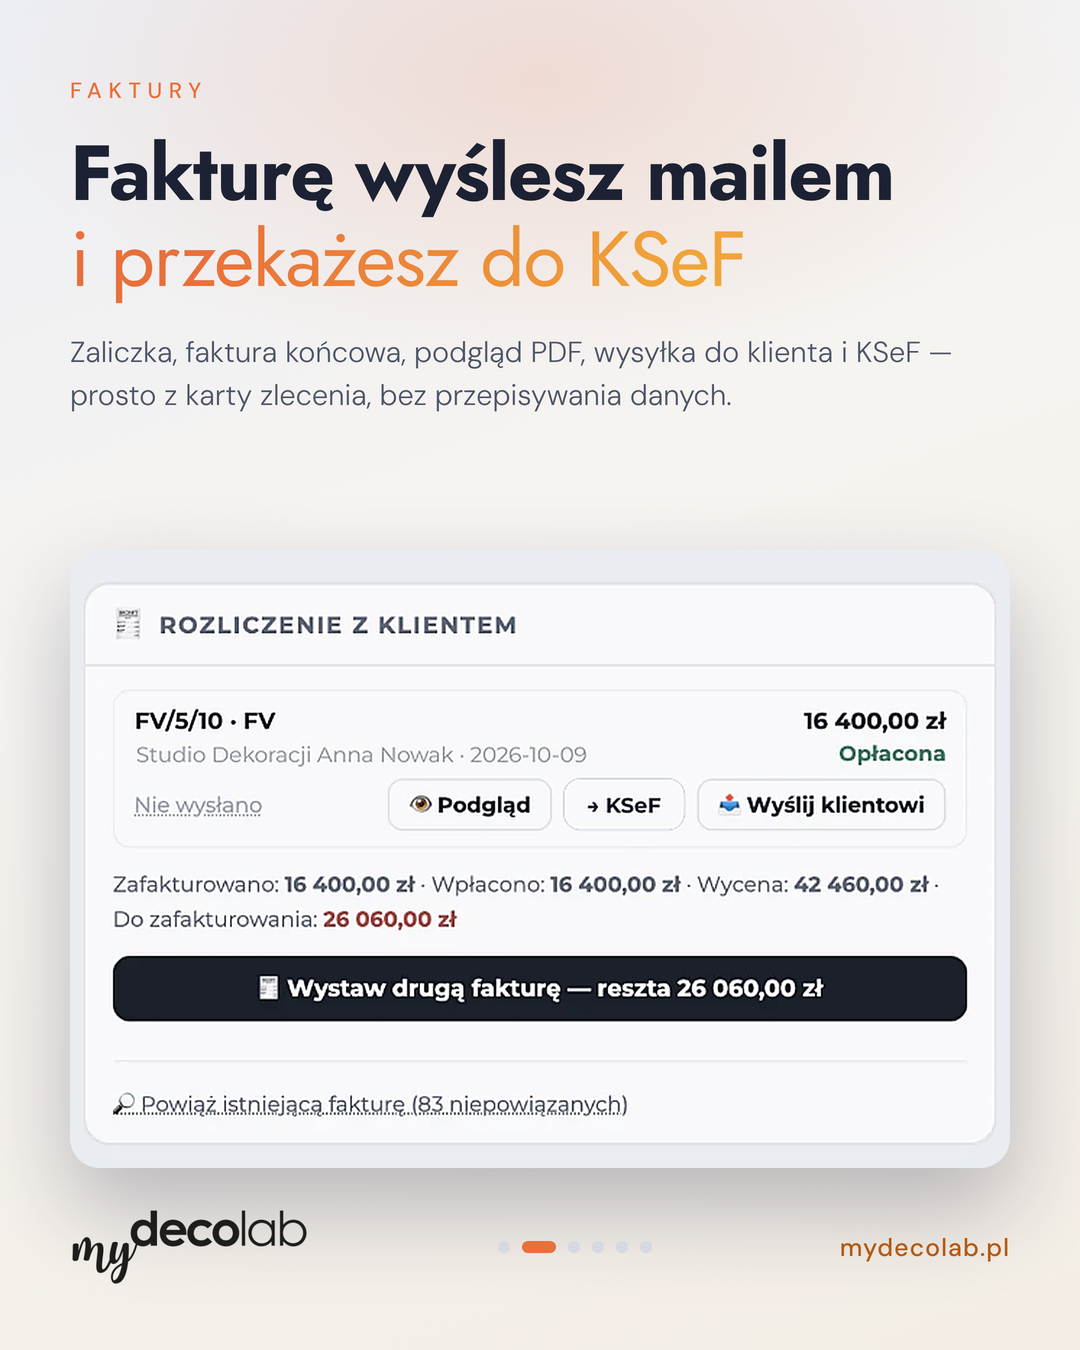
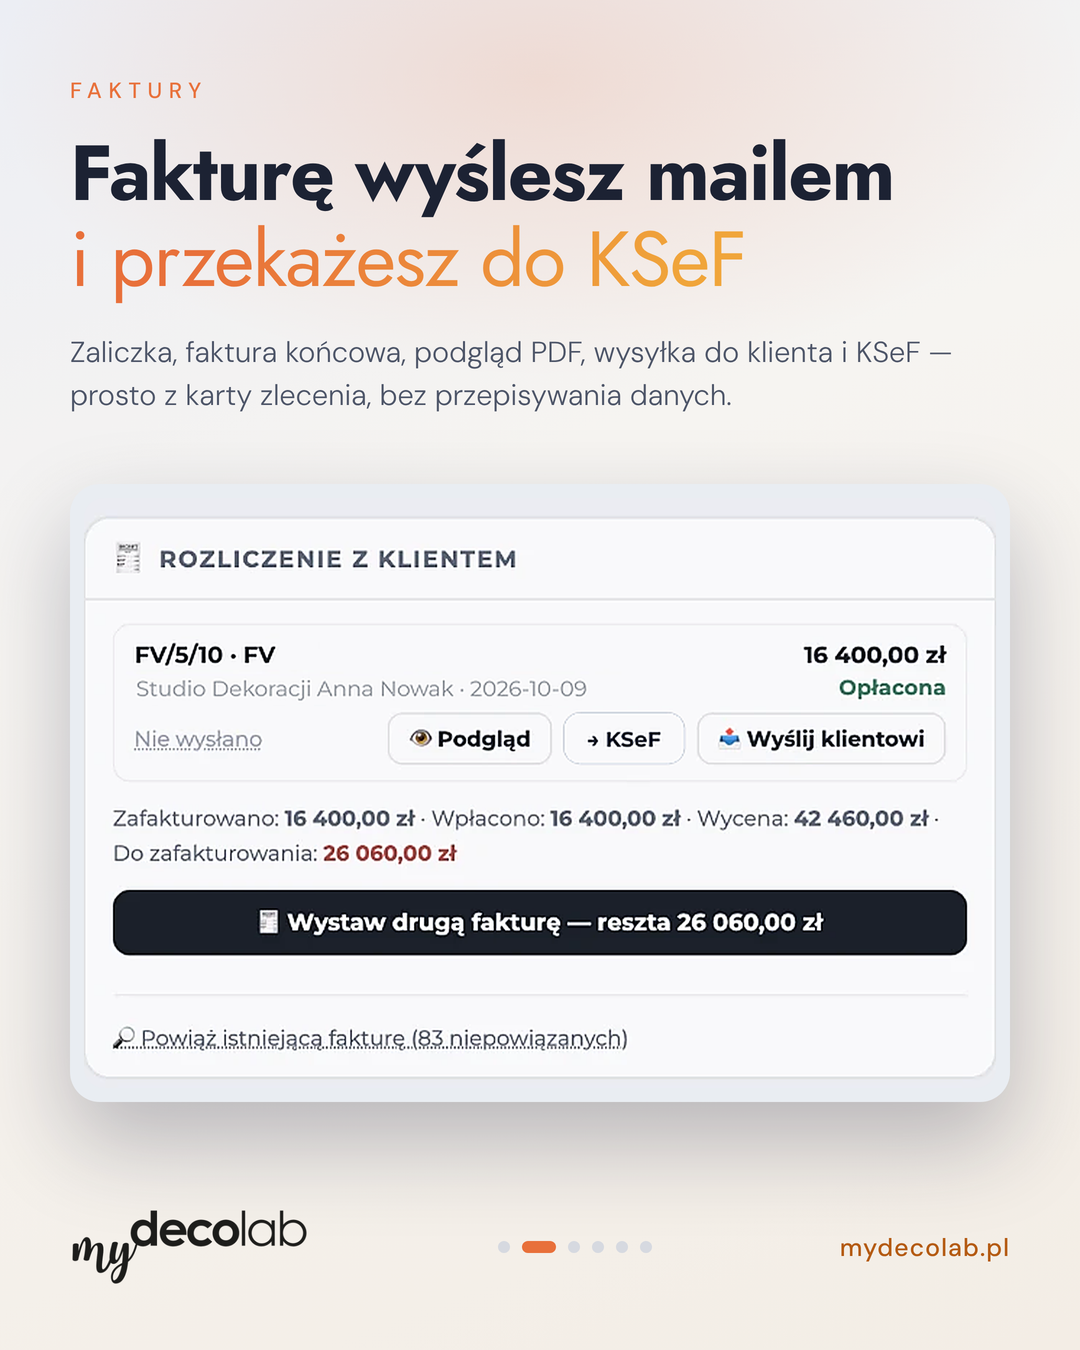
Karuzela IG: wyceny (5 slajdów z konfiguratora), wyśrodkowanie ramki zrzutu
Claude-Session: https://claude.ai/code/session_01GDbqFbDENKSgmogZ69L9kG

Changed region(s): [[0.0917, 0.4044, 0.9167, 0.7778], [0.0611, 0.8089, 0.9472, 0.9022]]

diff --git a/social/render_carousel.py b/social/render_carousel.py
@@ -31,7 +31,7 @@ SLIDES = [
 ]
 
 EXTRA = """
-.shot{margin:auto auto 0;height:auto;padding:14px}
+.shot{margin:auto;height:auto;padding:14px}
 .shot img{width:100%}
 .shotin{height:auto}
 .dots{display:flex;gap:12px;align-items:center}
@@ -41,9 +41,9 @@ EXTRA = """
 .foot .cta{font-size:25px;font-weight:500;color:#b45a12;letter-spacing:.04em}
 """
 
-def html(n, crop, width, eyebrow, title, sub):
-    dots = ''.join(f'<i class="{"on" if i == n else ""}"></i>' for i in range(len(SLIDES)))
-    last = n == len(SLIDES) - 1
+def html(n, total, crop, width, eyebrow, title, sub):
+    dots = ''.join(f'<i class="{"on" if i == n else ""}"></i>' for i in range(total))
+    last = n == total - 1
     right = 'Darmowy test: mydecolab.pl' if last else 'mydecolab.pl'
     return f"""<!doctype html><html><head><meta charset=utf-8>
 <link href="https://fonts.googleapis.com/css2?family=Jost:wght@400;700&family=DM+Sans:wght@300;500&display=swap" rel="stylesheet">
@@ -53,11 +53,12 @@ def html(n, crop, width, eyebrow, title, sub):
 <div class=foot><img src="file://{PUB/'logo-mydecolab.png'}"><div class=dots>{dots}</div><span>{right}</span></div>
 </div></body></html>"""
 
-def main():
+def main(slides=None):
+    slides = slides or SLIDES
     with sync_playwright() as p:
         b = p.chromium.launch(executable_path=os.environ.get('CHROMIUM_PATH') or None)
         pg = b.new_page(viewport={'width': 1080, 'height': 1350}, device_scale_factor=SS)
-        for n, (name, img, box, width, ey, t, s) in enumerate(SLIDES):
+        for n, (name, img, box, width, ey, t, s) in enumerate(slides):
             crop = TMP / f'{name}.png'
             c = img.crop(box)
             # powiększenie z wyprzedzeniem (Lanczos) + lekkie wyostrzenie, zamiast skalowania w przeglądarce
@@ -66,7 +67,7 @@ def main():
             c = c.filter(ImageFilter.UnsharpMask(radius=2.2, percent=140, threshold=2))
             c.save(crop)
             f = OUT / f'{name}.html'
-            f.write_text(html(n, crop, width, ey, t, s), encoding='utf-8')
+            f.write_text(html(n, len(slides), crop, width, ey, t, s), encoding='utf-8')
             pg.goto(f'file://{f}', wait_until='networkidle')
             pg.evaluate('document.fonts.ready')
             raw = OUT / f'{name}.raw.png'

diff --git a/social/render_wyceny.py b/social/render_wyceny.py
@@ -1,0 +1,33 @@
+"""Karuzela „Wyceny” (5 slajdów 1080x1350) ze zrzutów konfiguratora wyceny w social/src/wyceny-*.png.
+Uruchom: CHROMIUM_PATH=... python3 social/render_wyceny.py"""
+from PIL import Image
+from render_carousel import SRC, main
+
+firana = Image.open(SRC / 'wyceny-firana.png')
+szcz = Image.open(SRC / 'wyceny-szczegoly.png')
+roleta = Image.open(SRC / 'wyceny-roleta.png')
+
+def join(img, y0, y1, x_left_end, x_right_start, x0=20, x1=1970):
+    """Skleja lewy i prawy fragment wiersza, pomijając pusty środek (tło jest jednolite, szwu nie widać)."""
+    l = img.crop((x0, y0, x_left_end, y1)); r = img.crop((x_right_start, y0, x1, y1))
+    out = Image.new('RGB', (l.width + r.width, y1 - y0))
+    out.paste(l, (0, 0)); out.paste(r, (l.width, 0))
+    return out
+
+cena = join(szcz, 1030, 1306, 700, 1620)
+
+SLIDES = [
+  ('wyceny-1', roleta, (18, 12, 1968, 1177), 940, 'Wyceny', 'Wycena zlecenia<br><em>w kilka minut</em>',
+   'Wybierasz produkt i wpisujesz wymiary — cena z marżą liczy się sama, bez arkuszy i kalkulatora.'),
+  ('wyceny-2', roleta, (50, 110, 1000, 700), 940, 'Krok 1 · produkt i wymiary', 'Wybierasz produkt<br><em>i wpisujesz wymiary</em>',
+   'Zasłony, firany, żaluzje, rolety, karnisze i własny cennik w jednym konfiguratorze. Tkaninę wybierasz z katalogu.'),
+  ('wyceny-3', szcz, (20, 0, 1000, 640), 940, 'Krok 2 · model i szczegóły', 'Model, układ<br><em>i marszczenie</em>',
+   'Fałda, Wave albo taśma marszcząca, układ zasłony, procent marszczenia i odstęp między ślizgami — każdy wybór od razu przelicza cenę.'),
+  ('wyceny-4', szcz, (20, 640, 1000, 1020), 940, 'Krok 3 · wykończenie i dodatki', 'Wykończenie<br><em>i dodatki</em>',
+   'Typ dołu, rozmiar dołu, podszewka, ołów i taśma — opcje, o których łatwo zapomnieć przy wycenie, masz pod ręką.'),
+  ('wyceny-5', cena, (0, 0, cena.width, cena.height), 940, 'Cena', 'Cena z marżą<br><em>liczy się sama</em>',
+   'Wycena od razu w gotowej kwocie, z możliwością wpisania własnej ceny końcowej. Z wyceny: PDF, mail, zamówienie tkaniny i zlecenie szycia.'),
+]
+
+if __name__ == '__main__':
+    main(SLIDES)

diff --git a/social/opis-wyceny.md b/social/opis-wyceny.md
@@ -1,0 +1,12 @@
+**Wycena zlecenia w kilka minut** 🧵
+
+Koniec z arkuszami i kalkulatorem. W My DecoLab wybierasz produkt, wpisujesz wymiary — a cena z marżą liczy się sama.
+
+1⃣ **Produkt i wymiary** – zasłony, firany, żaluzje, rolety, karnisze i własny cennik w jednym konfiguratorze; tkaninę wybierasz z katalogu
+2⃣ **Model i szczegóły** – fałda, Wave, taśma marszcząca, układ zasłony, procent marszczenia, odstęp między ślizgami
+3⃣ **Wykończenie i dodatki** – typ i rozmiar dołu, podszewka, ołów, taśma, montaż
+4⃣ **Cena** – gotowa kwota z marżą (albo własna cena końcowa), a z wyceny jednym kliknięciem: PDF dla klienta, mail, zamówienie tkaniny i zlecenie szycia
+
+👉 Chcesz zobaczyć, jak to działa? Zgłoś się po darmowy test: mydecolab.pl (link w bio)
+
+#dekoracjaokien #zasłony #żaluzje #rolety #karnisze #studiodekoracji #wycena #aranżacjawnętrz #mydecolab
